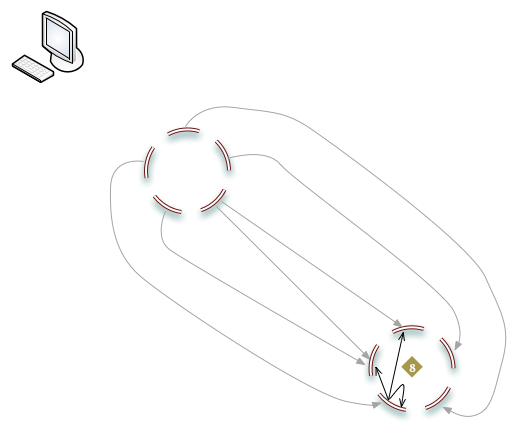
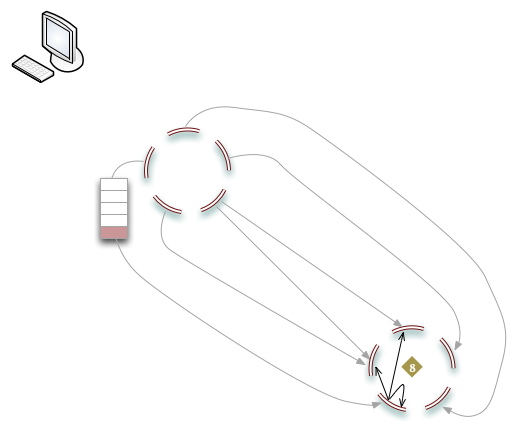
Fix hyphenation on realtime, fullsync. Update last image to include queue. Add real last image to illustrate ack on sink write, plus text

Changed region(s): [[0.1839, 0.385, 0.2759, 0.5626]]

diff --git a/source/languages/en/riakee/cookbooks/Multi-Data-Center-Replication-v3-Architecture.md b/source/languages/en/riakee/cookbooks/Multi-Data-Center-Replication-v3-Architecture.md
@@ -15,9 +15,9 @@ moved: {
 
 In multi-datacenter (MDC) replication, a cluster can act as the "source cluster". The source cluster sends replication data to one or more "sink clusters" (generally located in datacenters in other regions or countries). Bidirectional replication can easily be established by making a cluster both a source and a sink to other clusters. Riak Enterprise MDC Replication is considered "masterless": all clusters participating will resolve replicated writes via the normal resolutions methods available in Riak.
 
-In multi-datacenter replication, there are two primary modes of operation: full-sync and real-time. In full-sync mode, a complete synchronization occurs between source and sink cluster(s). In real-time mode, continual, incremental synchronization occurs - replication is triggered by successful writing of new updates on the source. Full-sync can be performed upon initial connection of a sink cluster.
+In multi-datacenter replication, there are two primary modes of operation: fullsync and realtime. In fullsync mode, a complete synchronization occurs between source and sink cluster(s). In realtime mode, continual, incremental synchronization occurs - replication is triggered by successful writing of new updates on the source. Fullsync can be performed upon initial connection of a sink cluster.
 
-Full-sync and real-time modes are described in detail below. 
+Fullsync and realtime modes are described in detail below.
 
 ## Concepts
 
@@ -31,32 +31,32 @@ A sink refers to a cluster that is the primary consumer of replication data. A s
 
 ### Cluster Manager
 
-The cluster manager is a Riak EE service that provides information regarding nodes and protocols supported by the sink and source clusters. This information is primarily consumed by the `riak-repl connect` command. 
+The cluster manager is a Riak EE service that provides information regarding nodes and protocols supported by the sink and source clusters. This information is primarily consumed by the `riak-repl connect` command.
 
 ### Fullsync Coordinator
 
 In fullsync replication, a node on the source cluster is elected to be the *fullsync coordinator*. This node is responsible for starting and stopping replication to the sink cluster. It also communicates with the sink cluster to exchange key lists, and ultimately transfer data across a TCP connection. If a fullsync coordinator is terminated as the result of an error, it will automatically restart on the current node. In the node becomes unresponsive, then a leader election will take place within 5 seconds to select a new node from the cluster to become the coordinator. In the event of a coordinator restart, a fullsync will have to restart.
 
 
-## Full-Sync Replication
+## Fullsync Replication
 
 Fullsync replication scans through the list of partitions in a Riak cluster, and determines which objects in the sink cluster need to be updated. A source partition is synchronized to a node on the sink cluster containing the current partition.
- 
-## Real-time Replication
 
-In real-time replication, a node in the source cluster will forward data to the sink cluster. A node in the source cluster does not necessarily connect to a node containing the same *vnode* on the sink cluster. This allows Riak to spread out realtime replication across the entire cluster, thus improving throughput and making replication more fault-tolerant.
+## Realtime Replication
+
+In realtime replication, a node in the source cluster will forward data to the sink cluster. A node in the source cluster does not necessarily connect to a node containing the same *vnode* on the sink cluster. This allows Riak to spread out realtime replication across the entire cluster, thus improving throughput and making replication more fault-tolerant.
 
 ### Initialization
 Before a source cluster can begin pushing realtime updates to a sink, the following commands must be issued:
 
 1. `riak-repl realtime enable <sink_cluster>`
-    * After this point, the realtime queues are populated with updates on the source nodes, ready to be pushed to the sink.
+    * After this command, the realtime queues (one for each Riak node) are populated with updates to the source cluster, ready to be pushed to the sink.
 2. `riak-repl realtime start <sink_cluster>`
-    * The Riak connection manager contacts the sink cluster.
+    * This instructs the Riak connection manager to contact the sink cluster.
 
 <br>
-![MDC Full-Sync](/images/MDC-v3-realtime1.png)
-<br>
+![MDC fullsync](/images/MDC-v3-realtime1.png)
+<Br>
 
 At this point realtime replication commences.
 
@@ -65,8 +65,8 @@ At this point realtime replication commences.
 </ol>
 
 <br>
-![MDC Full-Sync](/images/MDC-v3-realtime2.png)
-<br>
+![MDC fullsync](/images/MDC-v3-realtime2.png)
+<Br>
 
 ### Realtime queueing and synchronization
 
@@ -78,23 +78,30 @@ Once initialized, realtime replication continues to use the queues to store data
 </ol>
 
 <br>
-![MDC Full-Sync](/images/MDC-v3-realtime3.png)
-<br>
+![MDC fullsync](/images/MDC-v3-realtime3.png)
+<Br>
 
 <ol start="6">
-<li>The new object is stored in the real-time queue.</li>
+<li>The new object is stored in the realtime queue.</li>
 <li>The object is copied to the sink cluster.</li>
 </ol>
 
 <br>
-![MDC Full-Sync](/images/MDC-v3-realtime4.png)
-<br>
+![MDC fullsync](/images/MDC-v3-realtime4.png)
+<Br>
 
 <ol start="8">
 <li>The destination node on the sink cluster writes the object to N nodes.</li>
 </ol>
 
 <br>
-![MDC Full-Sync](/images/MDC-v3-realtime5.png)
-<br>
+![MDC fullsync](/images/MDC-v3-realtime5.png)
+<Br>
 
+<ol start="9">
+<li>The successful write of the object to the sink cluster is acknowledged and the object removed from the realtime queue.</li>
+</ol>
+
+<br>
+![MDC fullsync](/images/MDC-v3-realtime6.png)
+<br>
